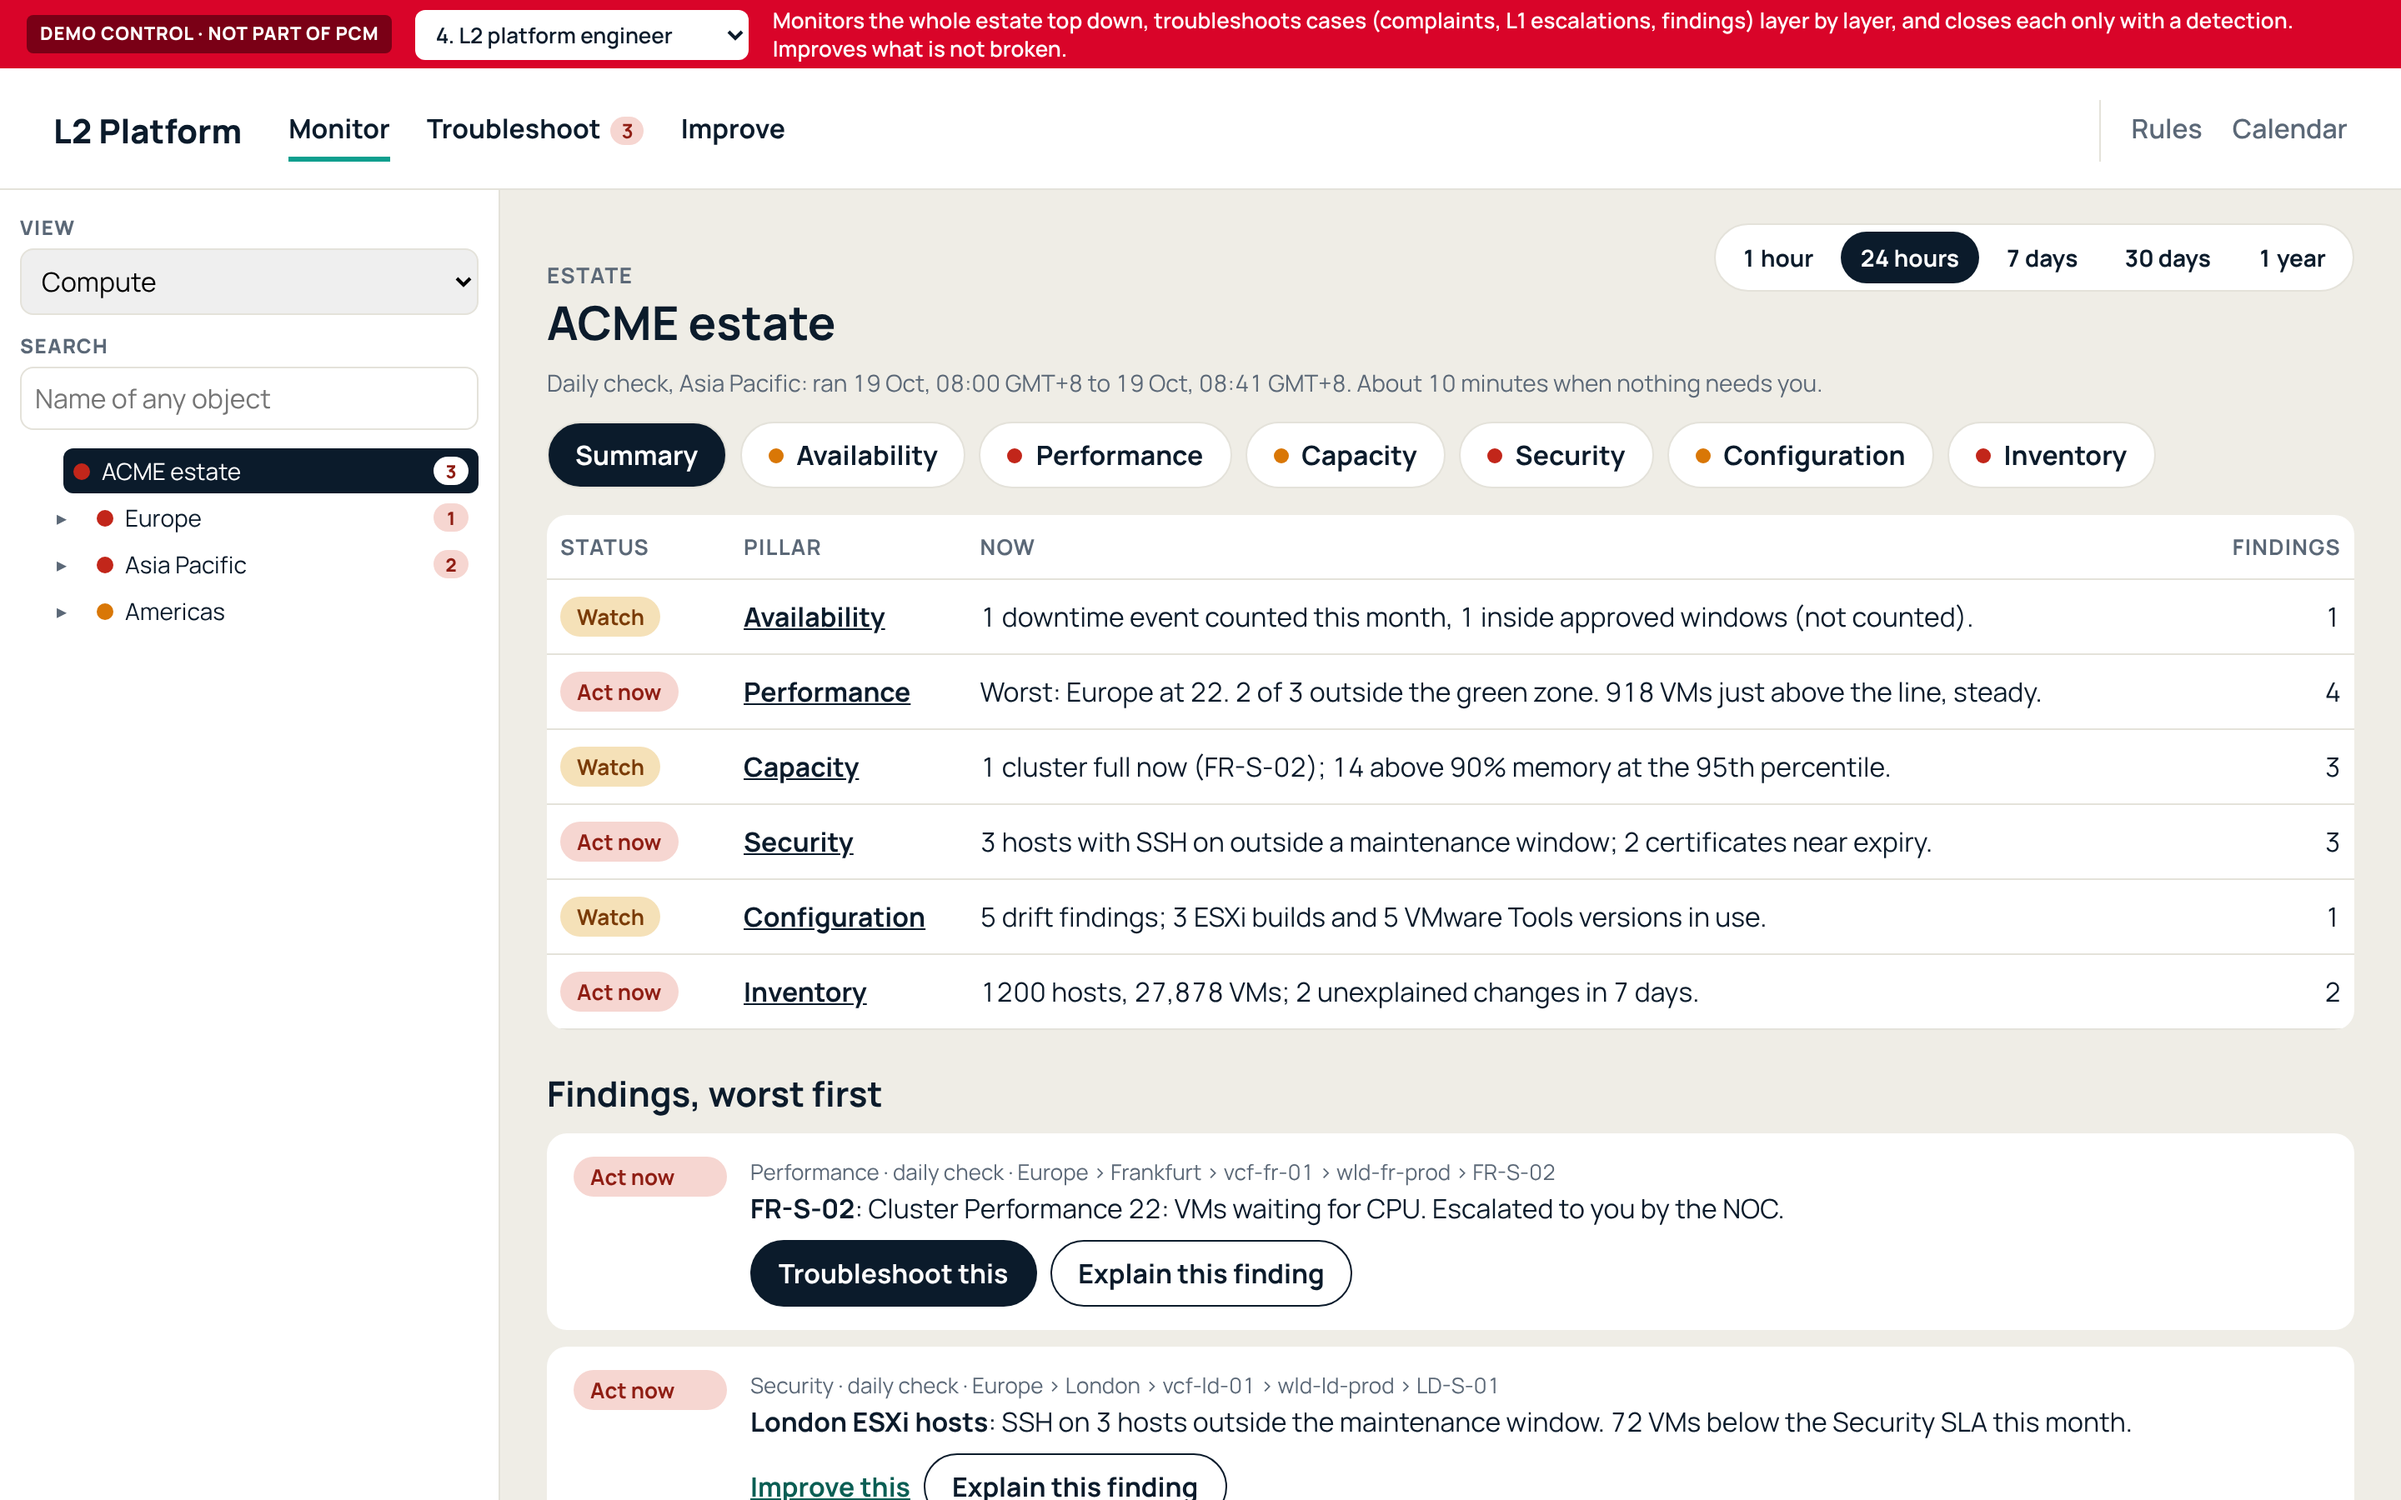
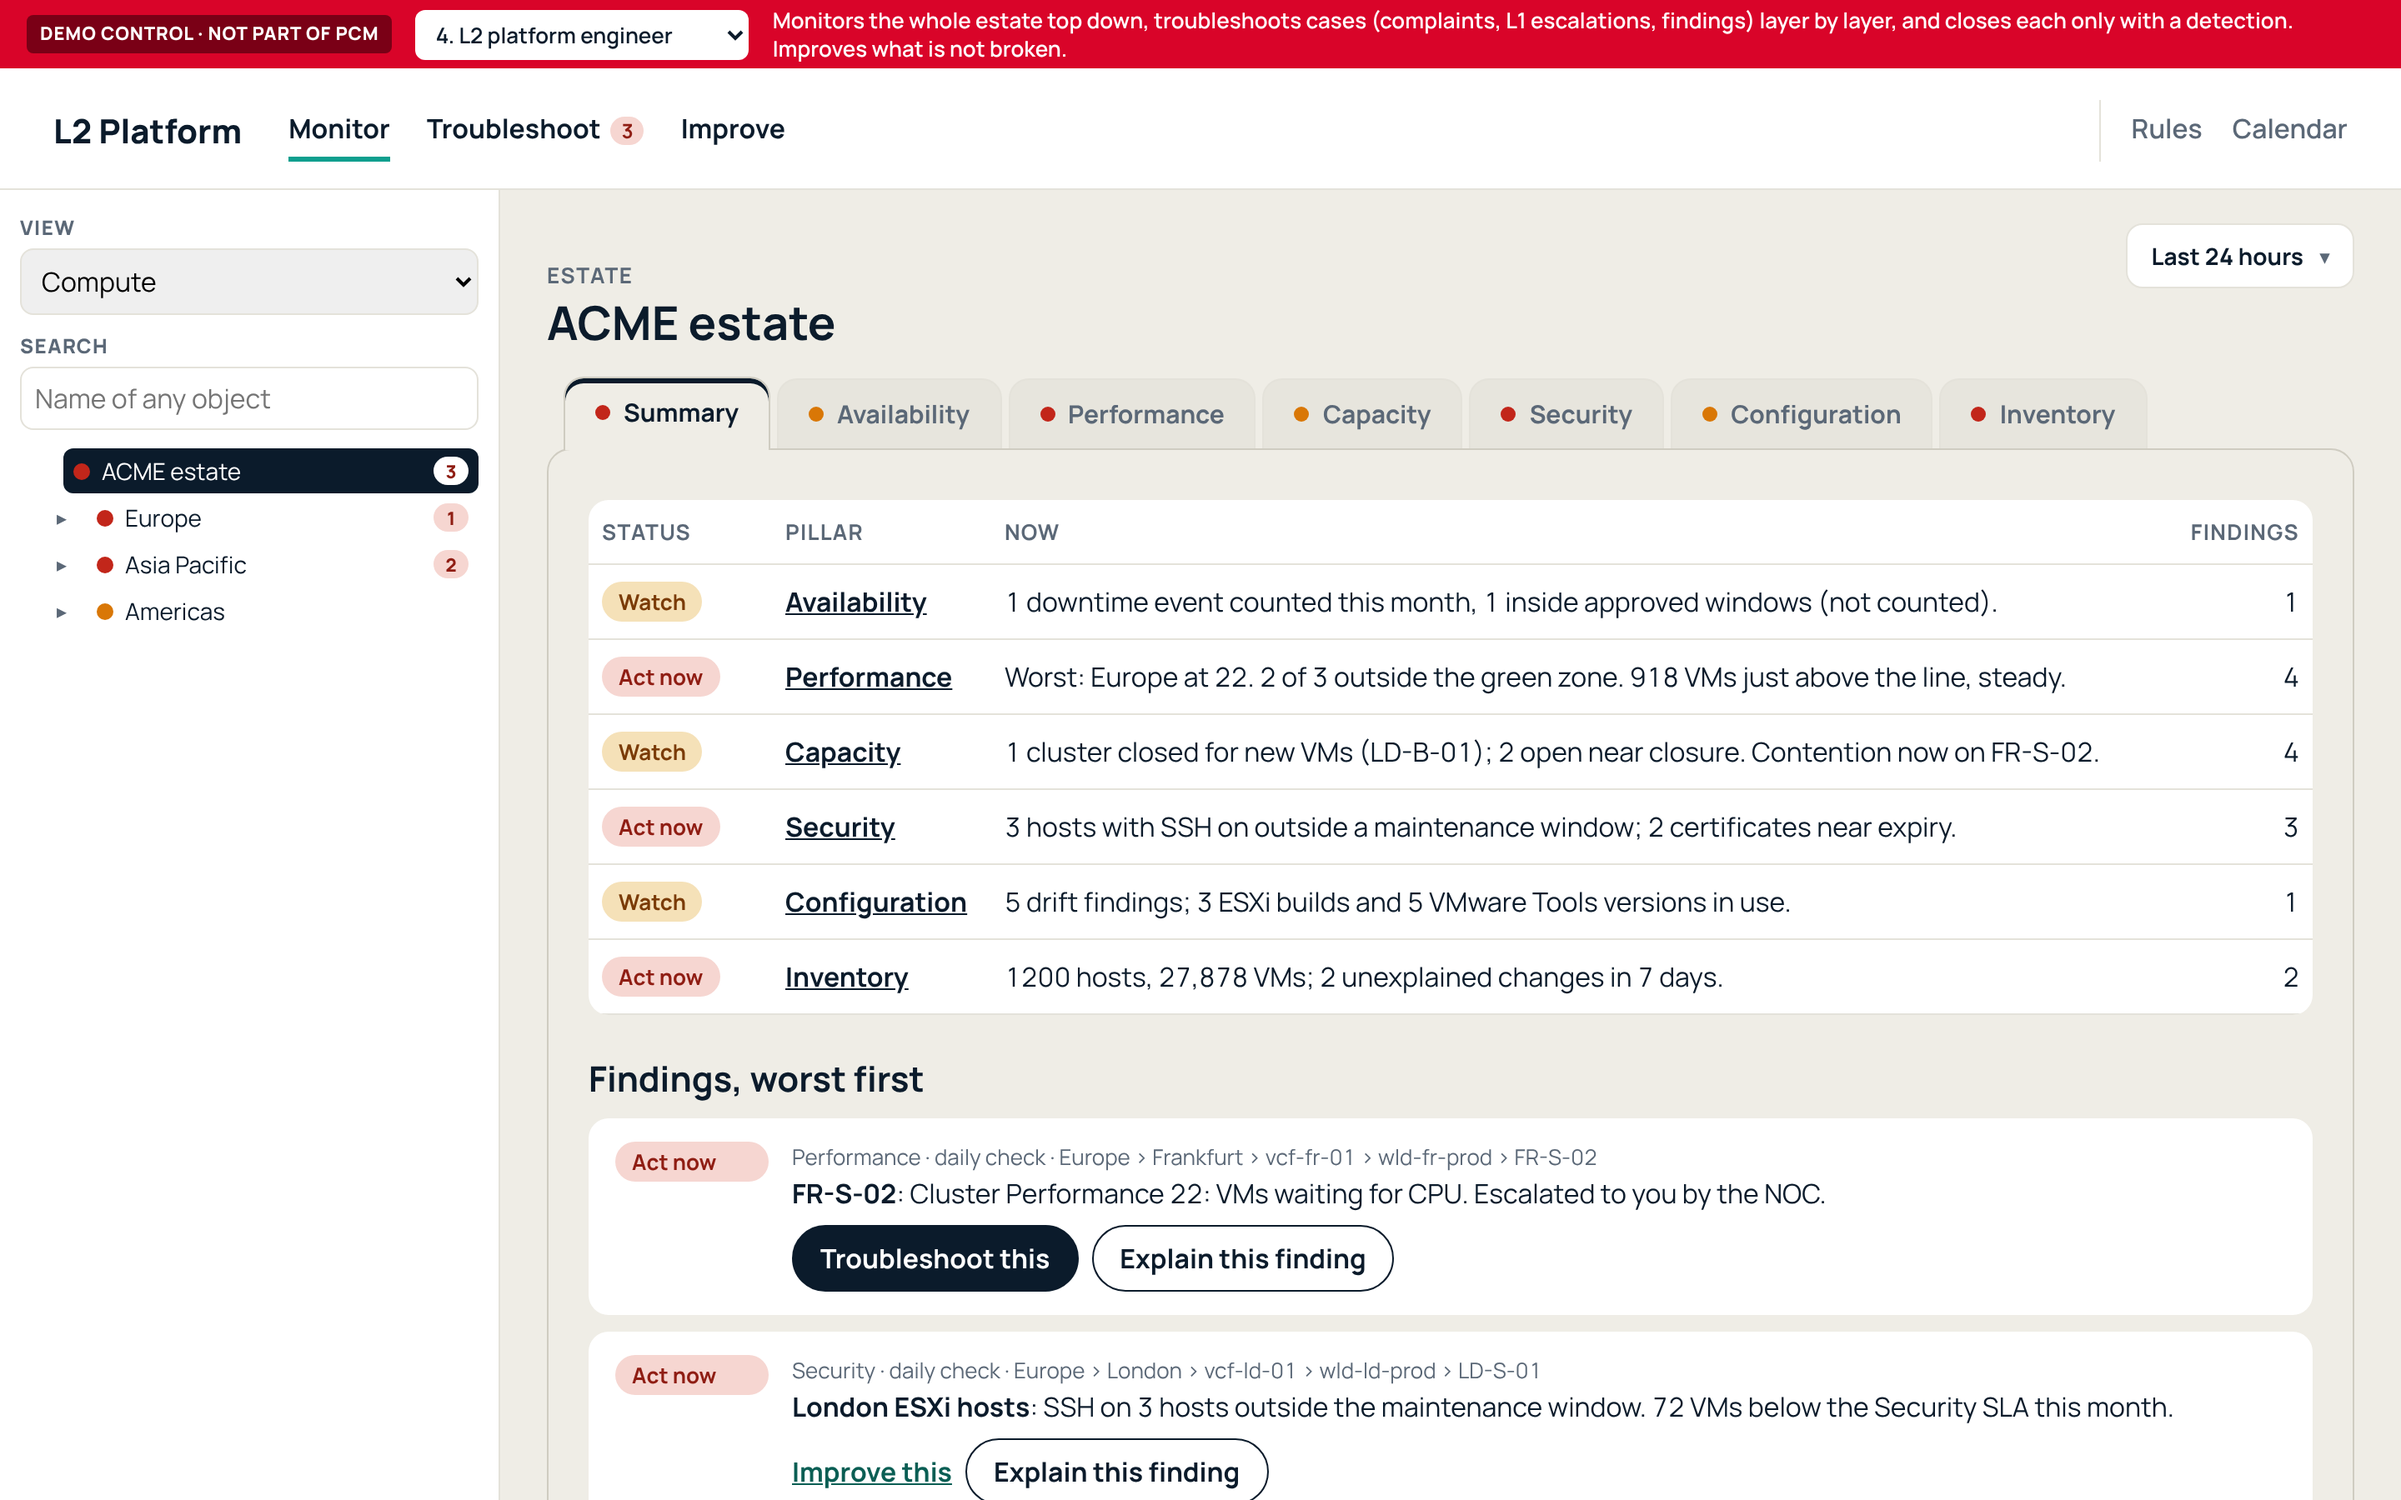
Docs: the cluster performance threshold is used by L2's Contention now, not the Capacity workspace; demo step 8 follows
Claude-Session: https://claude.ai/code/session_01JZFwAoWPfFsXvEDY49PmUq

Changed region(s): [[0.2188, 0.2489, 1.0, 0.6844], [0.2188, 0.7156, 1.0, 1.0], [0.7188, 0.1244, 0.9688, 0.2178]]

diff --git a/demo/README.md b/demo/README.md
@@ -2,7 +2,7 @@
 
 One story across every workspace, about 17 minutes. It shows that PCM is one system with one set of numbers, not five dashboards.
 
-**The story:** a Bronze batch VM lands in a Silver cluster in Frankfurt. The NOC sees it in seconds, follows the SOP, and escalates. L2 monitors the whole estate top down, troubleshoots the escalation as a case, and closes the loop with a new check rule. Capacity sees the same cluster as "full now". Docs shows exactly which number decided it. The CIO page tells the board the same thing in plain words.
+**The story:** a Bronze batch VM lands in a Silver cluster in Frankfurt. The NOC sees it in seconds, follows the SOP, and escalates. L2 monitors the whole estate top down, troubleshoots the escalation as a case, and closes the loop with a new check rule. L2's Capacity tab shows the same cluster open at the daily check, with contention now. Docs shows exactly which number decided it. The CIO page tells the board the same thing in plain words.
 
 **Before every demo, rehearse it.** The rehearsal clicks through every step below in a browser and checks that each screen still says what this script says. It also writes a screenshot per step to `demo/screens/`, which doubles as a handout. It needs Node and Playwright with Chromium, like the page tests.
 
@@ -160,7 +160,7 @@ Each step: what to click, what to point at, and the one sentence to say. Say the
 
 **Point at:**
 - The threshold "Cluster Performance below 50" and who owns it.
-- **Used on:** the NOC wall, the NOC incident page, and Capacity's cluster groups. Computed from the page specifications, not written by hand.
+- **Used on:** the NOC wall, the NOC incident page, and L2's Capacity tab ("Contention now"). Not the Capacity workspace: it reads the daily check, never the last hour. Computed from the page specifications, not written by hand.
 
 **Then open** `/docs/policy/move_vms_between_clusters`: version 2, owner and tier, and **History** with the publish you did five minutes ago, from the action record.
 

diff --git a/spec/workspaces/l2/monitor.md b/spec/workspaces/l2/monitor.md
@@ -127,7 +127,7 @@ On a VM, the tab shows detail. The Guest OS runs on top of the Virtual Motherboa
 question: "Can this cluster take more VMs now, what is driving it, and is it heading to closed?"
 role: l2
 cadence: [daily, weekly]
-reads: [l2.cluster_check, l2.contention_now, l2.cluster_kpi_series, l2.consumption_parts, l2.usable_capacity, l2.host_spread, l2.capacity_hosts]
+reads: [l2.cluster_check, l2.contention_now, noc.cluster_performance, l2.cluster_kpi_series, l2.consumption_parts, l2.usable_capacity, l2.host_spread, l2.capacity_hosts]
 api: /api/l2/monitor/{view}/{object}/capacity
 decisions: [D-094, D-095]
 ```
@@ -161,7 +161,7 @@ On a cluster. On a host, VM or Guest OS, the tab shows its cluster's page with t
 question: "How many clusters are closed or near closure, is that rising, and how wide is the pressure?"
 role: l2
 cadence: [daily, weekly]
-reads: [l2.closed_count, l2.consumption_spread, l2.near_closure, l2.capacity_clusters_at, l2.cluster_check]
+reads: [l2.closed_count, l2.consumption_spread, l2.near_closure, l2.capacity_clusters_at, l2.cluster_check, l2.contention_now, noc.cluster_performance]
 api: /api/l2/monitor/{view}/{object}/capacity
 decisions: [D-091, D-094, D-095]
 ```
